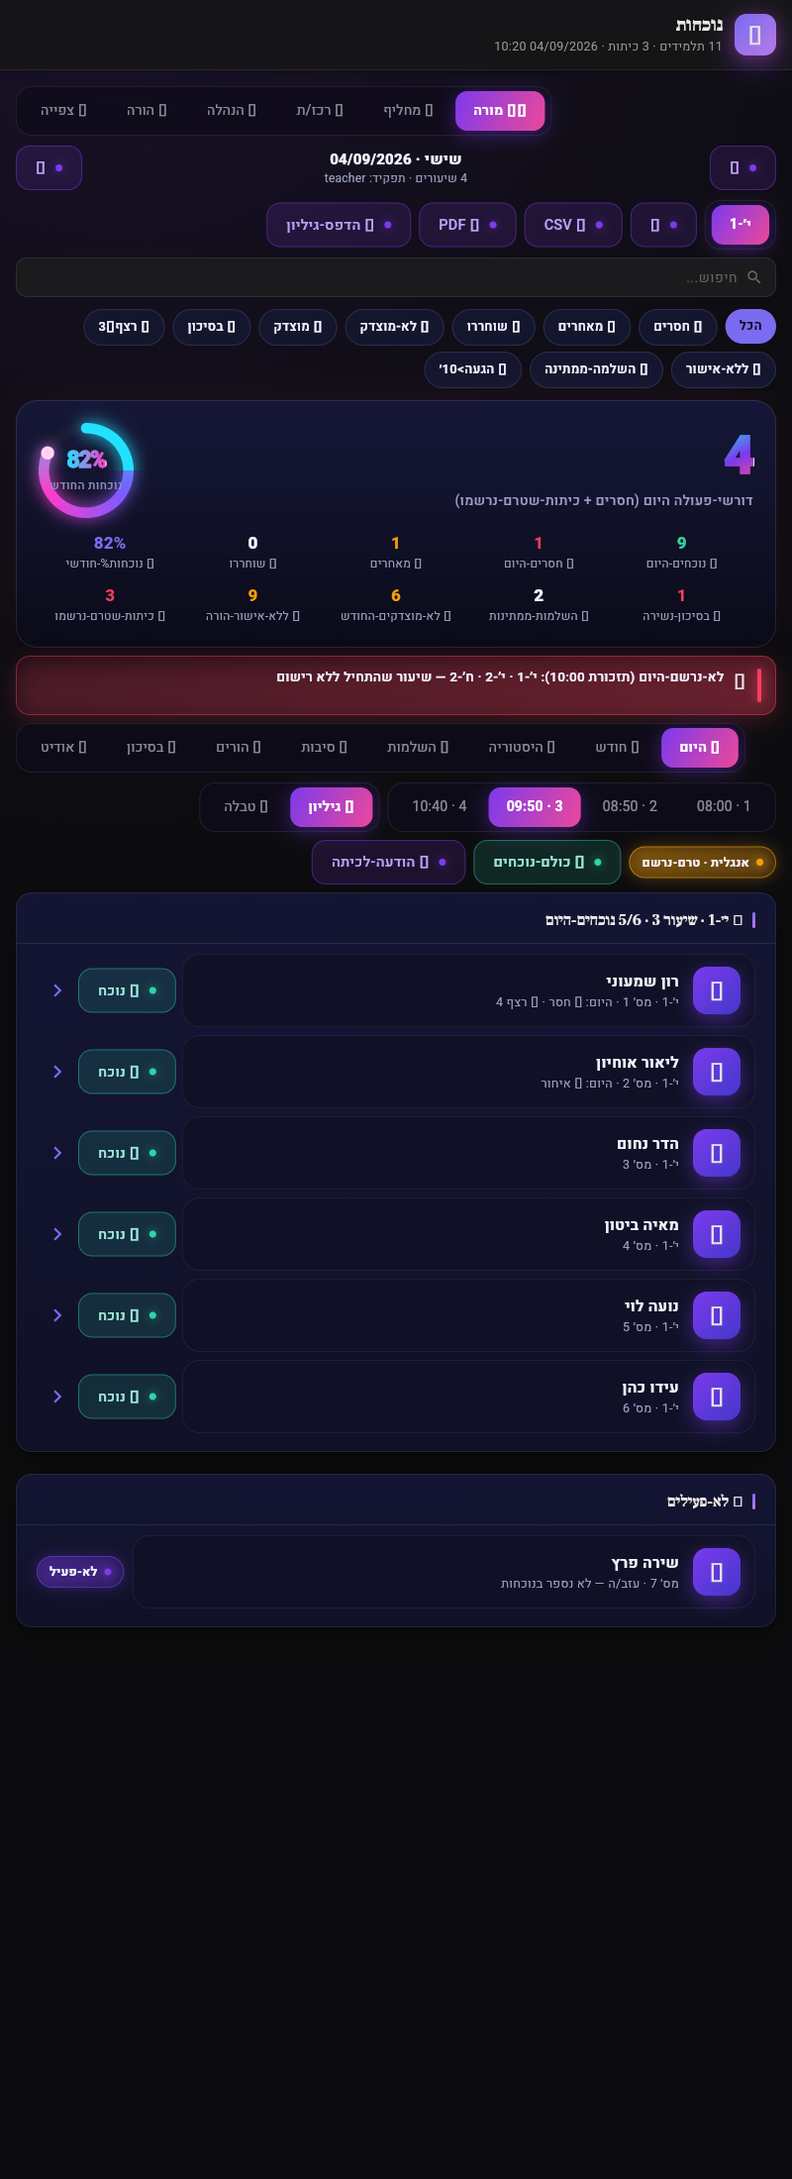
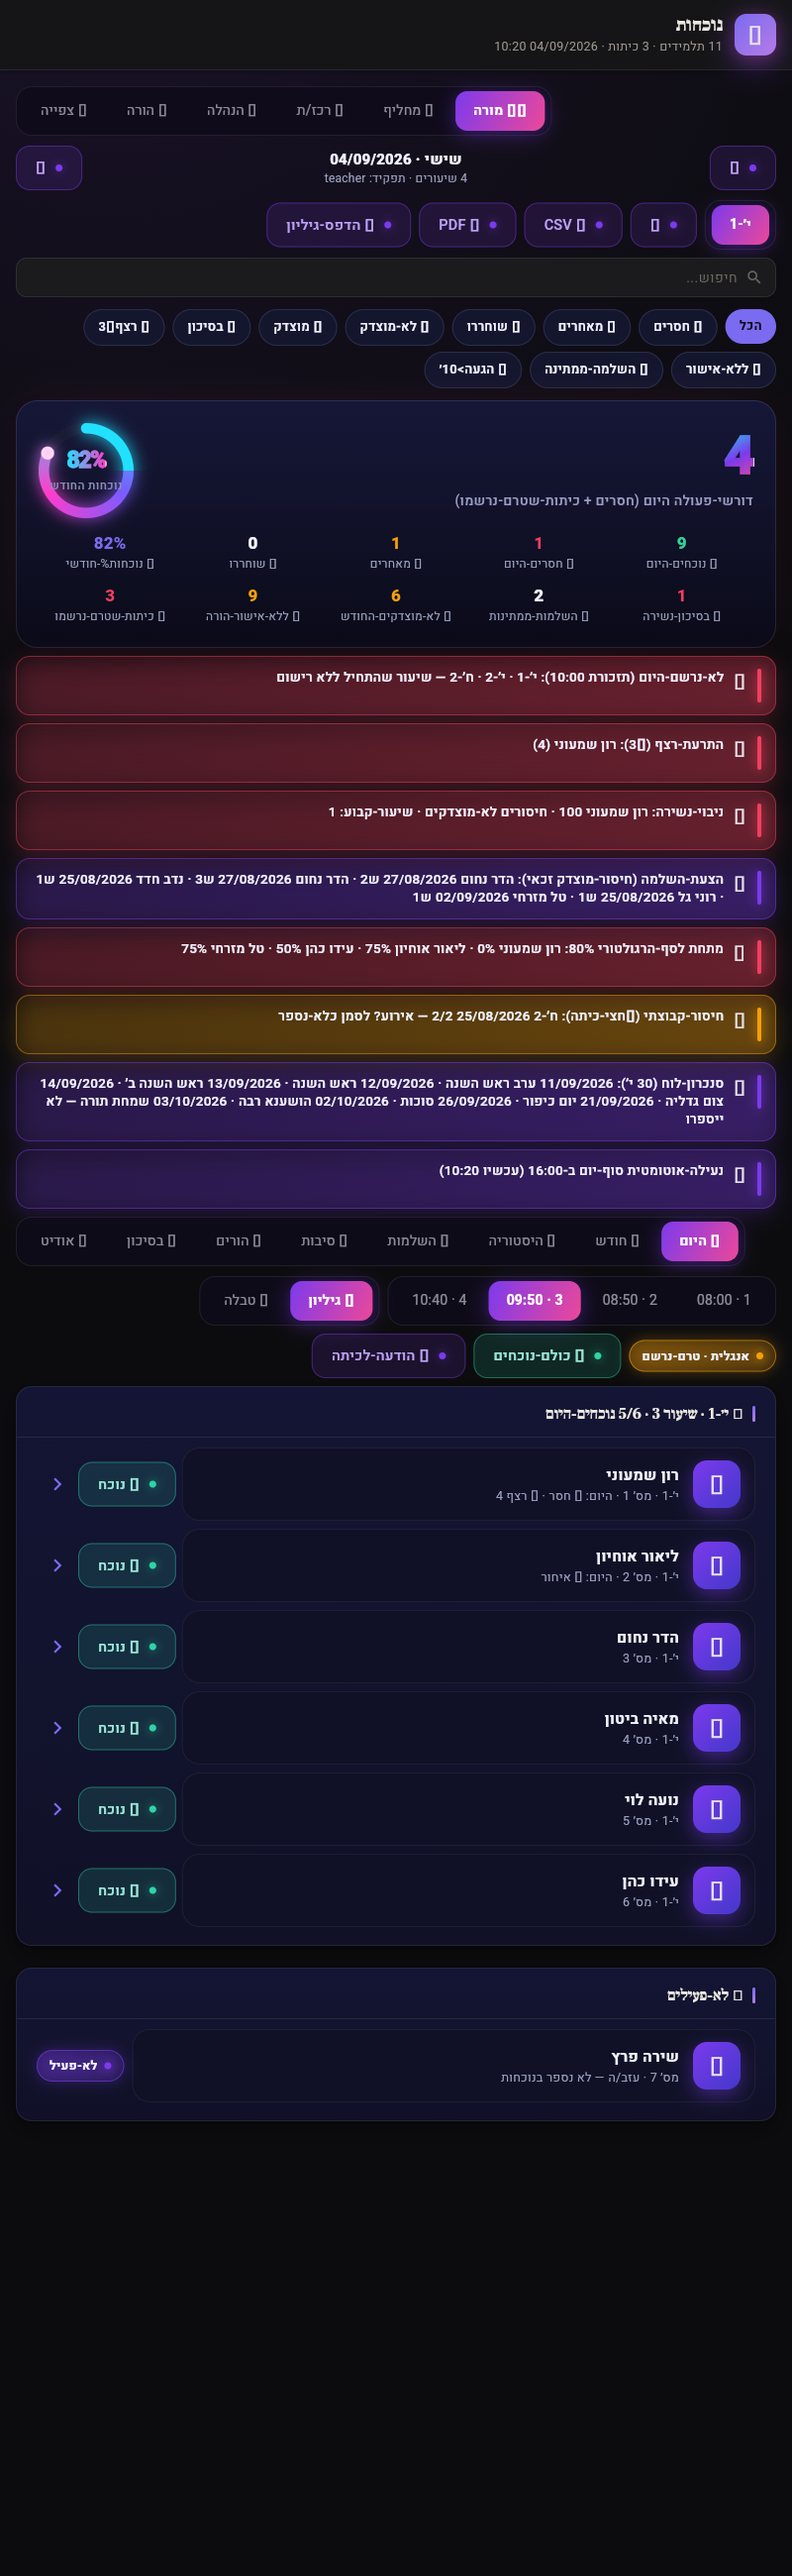
גל 6-7 · נוכחות · 10 אוטומציות-חכמות + 13 שקעי-הצבה (מקום-שמור) — AlertBanner×10 ⊕ streak⊕dayDiff · riskParts⊕patterns(countBy) · makeupEligibility · dateInRange(דוח-שבועי) · upcomingHolidays⊕holidayOf · autoLocked(timeToMin)
התרעת-רצף · ניבוי-נשירה (דפוס יום/שיעור/אחרי-חופשה) · חלון-תגובה-הורה (הסלמה) · הצעת-השלמה · תזכורת
לא-נרשם · דוח-שבועי-CSV להנהלה · סף-רגולטורי (+התרעה-מקדימה) · נעילה-אוטו · חיסור-קבוצתי (≥חצי-כיתה,
דמו ח׳-2 25/8 2/2) · סנכרון-לוח 30 י׳. שקעים מוצהרים (photo·medicalDoc·online·transportLate·cardIn·gpsIn·
riskExternal·noticeHrs·notifySink·auditSink·pdfPrint·substituteTeacher·dashboardCounters) בטאב-אודיט.
analyze — No issues found · police --fast 22/0 · רנדר: מרכז-אוטומציות.

Claude-Session: https://claude.ai/code/session_015e8tcWJUhfaDCFRBSoFfLY

Protocol-Ran: 81ef2ca4e8341b9e

diff --git a/new/dart-gen-bs/schoolos_attendance.dart b/new/dart-gen-bs/schoolos_attendance.dart
@@ -56,6 +56,7 @@ import '../dart-maor/month-key.dart'; // מנוע-מדף: ISO ⇒ YYYY-MM
 import '../dart-maor/week-day-names.dart'; // דאטה-מדף: שמות-ימים (ראשון..שבת)
 import '../dart-maor/time-to-min.dart'; // מנוע-מדף: 'HH:MM' ⇒ דקות (איחור · שיעור-נוכחי)
 import '../dart-maor/holiday-of.dart'; // מנוע-מדף: שם-חג לתאריך (לוח-עברי)
+import '../dart-maor/upcoming-holidays.dart'; // מנוע-מדף: חגים-קרובים בחלון-ימים (סנכרון-לוח מקדים)
 import '../dart-maor/holidays.dart'; // דאטה-מדף: HOLIDAYS מפת-חגים
 import '../dart-maor/heb-parts.dart'; // מנוע-מדף: תאריך ⇒ {day,month(En),year} עברי
 import '../dart-data-maor/holiday-of-terms.dart' as hol_t; // מונחי-חגים-נדחים (דאטה)
@@ -80,6 +81,9 @@ class _Placement {
   static const riskRed = 60, riskOrange = 35; // ספי-סיכון (ציון 0..100)
   static const lockHm = '16:00'; // נעילה-אוטומטית סוף-יום
   static const remindHm = '10:00'; // תזכורת "לא-נרשם-היום" למורה בשעה-X
+  static const responseWindowDays = 2; // חלון-תגובה להורה אחרי הודעה-אוטו (ימים)
+  static const groupAbsenceMin = 2; // חיסור-קבוצתי: לפחות N חסרים וגם ≥ חצי-כיתה ⇒ אירוע?
+  static const thresholdWarnPct = 5; // התרעה-מקדימה: עד N% מעל הסף-הרגולטורי
   // 6 זהויות-דמו מוזרקות (חוק-6 · לא אטום): תפקיד ⇐ roleOf(config,email) · פעולה ⇐ canGrantedAction(features)
   //   scope: classes (null=הכל) · window (ימים סביב היום שמותר לערוך; 0=היום בלבד) · child (הורה)
   static const roleDefs = <Map<String, dynamic>>[
@@ -164,6 +168,9 @@ class _AttData {
     // עידו — חיסורים לא-מוצדקים ללא-אישור-הורה (החודש) ⇒ הודעה-אוטו
     {'date': '2026-09-01', 'lesson': 2, 'sid': 's6', 'status': 'absent', 'reason': 'אחר', 'justified': false, 'by': 't1', 'at': '2026-09-01T08:55'},
     {'date': '2026-09-03', 'lesson': 4, 'sid': 's6', 'status': 'absent', 'reason': 'אחר', 'justified': false, 'by': 't1', 'at': '2026-09-03T10:44'},
+    // ח׳-2 · 25/8 — כל הכיתה חסרה (2/2) ⇒ זיהוי-חיסור-קבוצתי (אירוע: טיול)
+    {'date': '2026-08-25', 'lesson': 1, 'sid': 's11', 'status': 'absent', 'reason': 'טיול', 'justified': true, 'parentOk': true, 'by': 't3', 'at': '2026-08-25T08:05'},
+    {'date': '2026-08-25', 'lesson': 1, 'sid': 's12', 'status': 'absent', 'reason': 'טיול', 'justified': true, 'parentOk': true, 'by': 't3', 'at': '2026-08-25T08:05'},
     // י׳-2 · טל — אבל (מוצדק), יובל — איחור-הסעה
     {'date': '2026-09-02', 'lesson': 1, 'sid': 's8', 'status': 'absent', 'reason': 'אבל', 'justified': true, 'parentOk': true, 'by': 't2', 'at': '2026-09-02T08:03'},
     {'date': '2026-09-03', 'lesson': 1, 'sid': 's9', 'status': 'late', 'arrival': '08:12', 'by': 't2', 'at': '2026-09-03T08:12'},
@@ -607,6 +614,63 @@ class _AttData {
       (marks.where((m) => dateInRange(m['date'] as String, from, to) && (cls == null || studentById(m['sid'] as String)['cls'] == cls)).toList()
         ..sort((a, b) => '${b['date']}${b['lesson']}'.compareTo('${a['date']}${a['lesson']}')));
 
+  // ═══ אוטומציות-חכמות (פעולה-4 "חריגה" + פעולה-5 "הכרעה" · פרואקטיבי — המערכת מתריעה לפני שדבר נשמט) ═══
+  // 1) התרעת-רצף: N חיסורים רצופים (streak ⊕ dayDiff)
+  static List<Map<String, dynamic>> get streakAlerts => [for (final s in activeStudents) if (streak(s['id'] as String) >= _Placement.streakAlert) s];
+  // 2) ניבוי-נשירה: band≥1 עם דפוס (יום/שיעור-קבוע · אחרי-חופשה) — riskParts⊕patterns (countBy)
+  static List<Map<String, dynamic>> get dropoutPredictions => [for (final s in activeStudents) if (riskBand(s['id'] as String) > 0) s];
+  // 3) חלון-תגובה להורה: הודעה נשלחה ואין אישור אחרי responseWindowDays (dayDiff) ⇒ הסלמה
+  static List<Map<String, dynamic>> get expiredResponses => [
+        for (final m in marks)
+          if (unjustified(m) && m['parentOk'] != true && sent.contains(keyOf(m['date'] as String, m['lesson'] as int, m['sid'] as String)) && dayDiff(m['date'] as String, _Placement.today) > _Placement.responseWindowDays) m,
+      ];
+  // 4) הצעת-השלמה: חיסור-מוצדק זכאי (makeupEligibility) שטרם תוזמן
+  static List<Map<String, dynamic>> get makeupSuggestions => [
+        for (final m in marks)
+          if (m['status'] == 'absent' && m['justified'] == true && m['makeupDate'] == null && m['makeupDone'] != true && eligibility(m)['eligible'] == true) m,
+      ];
+  // 6) דוח-שבועי-להנהלה: סימוני 7 הימים האחרונים (dateInRange) בשורות-CSV
+  static List<List<Object?>> weeklyRows() => [
+        ['תאריך', 'תלמיד', 'כיתה', 'שיעור', 'סטטוס', 'סיבה', 'מוצדק', 'אישור-הורה', 'הגעה', 'רשם/ה'],
+        for (final m in marksInRange(shift(_Placement.today, -7), _Placement.today))
+          [m['date'], studentById(m['sid'] as String)['name'], className(studentById(m['sid'] as String)['cls'] as String), m['lesson'], statusLabel[m['status']], m['reason'] ?? '', m['justified'] == true ? 'כן' : 'לא', m['parentOk'] == true ? 'כן' : 'לא', m['arrival'] ?? '', m['by']],
+      ];
+  static String get weeklyCsv => toCsv(weeklyRows(), csvEscape) as String;
+  // 7) סף-רגולטורי: מתחת לסף (זכאות/תעודה) · התרעה-מקדימה (עד thresholdWarnPct מעל הסף)
+  static List<Map<String, dynamic>> get belowThreshold => [for (final s in activeStudents) if (attendancePct(s) * 100 < _Placement.minAttendancePct) s];
+  static List<Map<String, dynamic>> get nearThreshold => [for (final s in activeStudents) if (attendancePct(s) * 100 >= _Placement.minAttendancePct && attendancePct(s) * 100 < _Placement.minAttendancePct + _Placement.thresholdWarnPct) s];
+  // 9) זיהוי-חיסור-קבוצתי: ביום-לימודים, כיתה עם ≥ חצי-הרוסטר חסרים (ומינימום N) ⇒ אירוע? (30 ימי-לימודים אחרונים)
+  static List<Map<String, dynamic>> get groupAbsences => [
+        for (final d in lastSchoolDays(30))
+          for (final c in classes)
+            if (() {
+              final r = studentsOf(c['id'] as String);
+              final n = r.where((s) => absentDay(d, s['id'] as String)).length;
+              return r.isNotEmpty && n >= _Placement.groupAbsenceMin && n * 2 >= r.length;
+            }())
+              {'date': d, 'cls': c['id'], 'absent': studentsOf(c['id'] as String).where((s) => absentDay(d, s['id'] as String)).length, 'total': studentsOf(c['id'] as String).length},
+      ];
+  // 10) סנכרון-לוח מקדים: חגים-קרובים (upcomingHolidays מהמדף על holidayOf) ⇒ ימים שלא ייספרו
+  static List<Map<String, dynamic>> get upcoming => upcomingHolidays(_Placement.today, (d) => holidayName(iso(d)), iso, 30);
+  // 8) נעילה-אוטומטית: autoLocked (nowHm ≥ lockHm) — מוצג כמצב
+
+  // ═══ שקעי-הצבה · מקום-שמור (חוק-7 · מבחן-הקונכייה): כל יכולת חסרת-נתון = שקע מוצהר, מאיר כשמחובר ═══
+  static const reservedSockets = <Map<String, String>>[
+    {'key': 'photo', 'label': 'תמונת-תלמיד', 'where': 'students[].photo ⇒ עמודה "תמונה"'},
+    {'key': 'medicalDoc', 'label': 'אישור-רפואי (קובץ)', 'where': 'mark.medicalDoc ⇒ עמודה + כפתור "צרף-אישור"'},
+    {'key': 'online', 'label': 'נוכחות-מקוונת (היברידי)', 'where': 'mark.online ⇒ עמודה "מקוון"'},
+    {'key': 'transportLate', 'label': 'הסעה-איחור', 'where': 'mark.transportLate ⇒ עמודה "איחור-הסעה"'},
+    {'key': 'cardIn', 'label': 'ביומטרי/כרטיס-כניסה', 'where': 'mark.cardIn ⇒ עמודה + arrival אוטומטי'},
+    {'key': 'gpsIn', 'label': 'GPS-הגעה', 'where': 'mark.gpsIn (מקור: AttendanceDay.inLat/inLng)'},
+    {'key': 'riskExternal', 'label': 'ציון-סיכון חיצוני (מודול-תלמידים)', 'where': 'students[].riskExternal ⇒ max(פנימי,חיצוני)'},
+    {'key': 'noticeHrs', 'label': 'שעות-הודעה-מראש (ביטול-מוקדם)', 'where': 'mark.noticeHrs ⇒ makeupEligibility rawHrs'},
+    {'key': 'notifySink', 'label': 'שקע-שליחה SMS/וואטסאפ (מודול-הורים)', 'where': 'send(key) ⇒ תור בלבד עד חיבור'},
+    {'key': 'auditSink', 'label': 'אחסון-אודיט (pushAuditRing/pullAuditRing)', 'where': 'audit[] בזיכרון עד חיבור fs'},
+    {'key': 'pdfPrint', 'label': 'PDF/הדפסה', 'where': 'CSV זמין; PDF/מדפסת = שקע'},
+    {'key': 'substituteTeacher', 'label': 'מורה-מחליף מוקצה (מודול-מורים)', 'where': 'roleDefs[מחליף].classes מוזרק בהצבה'},
+    {'key': 'dashboardCounters', 'label': 'מוני-לוח-הנהלה', 'where': 'KPI getters — המנהל מחווט למסך-הבית'},
+  ];
+
   // ─── KPI-10 (פעולה-3 · כל אחד = ספירה/יחס על אמת) ───
   static List<Map<String, dynamic>> get activeStudents => students.where(activeOf).toList();
   static int countToday(String status) => activeStudents.where((s) => dayStatus(_Placement.today, s['id'] as String) == status).length;
@@ -723,6 +787,7 @@ class _AttendanceScreenState extends State<AttendanceScreen> {
           if (_AttData.exportOk) SoftButton(label: '⬇ CSV', tone: 0, onTap: () => _openExport(visible)),
           if (_AttData.exportOk) SoftButton(label: '📄 PDF', tone: 0, onTap: () => setState(() => _notice = 'ייצוא-PDF: שקע-מדפסת/PDF לא מחובר בהצבה — מקום-שמור (CSV זמין)')),
           if (_AttData.exportOk) SoftButton(label: '🖨 הדפס-גיליון', tone: 0, onTap: () => setState(() => _notice = 'הדפסה: שקע-מדפסת לא מחובר בהצבה — מקום-שמור')),
+          if (_AttData.exportOk && (_AttData.can('att.audit') || _AttData.roleName == 'admin')) SoftButton(label: '📈 דוח-שבועי', tone: 0, onTap: () => _openCsv('דוח-שבועי להנהלה', _AttData.weeklyRows(), _AttData.weeklyCsv)),
         ]),
         _gap(8),
         DsSearch(value: _q, onChanged: (v) => setState(() => _q = v)),
@@ -762,6 +827,8 @@ class _AttendanceScreenState extends State<AttendanceScreen> {
           AlertBanner(glyph: '📝', tone: 2, message: 'לא-נרשם-היום (תזכורת ${_Placement.remindHm}): ${notRec.map(_AttData.className).join(' · ')} — שיעור שהתחיל ללא רישום'),
           _gap(8),
         ],
+        // ── מרכז-אוטומציות (פרואקטיבי · 23-ג): רק התרעות פעילות — כל אחת = מנוע-מדף ⊕ AlertBanner/StatusChip ──
+        ..._automations(cls),
         // ── 8 טאבים (SegmentedSwitch מבוקר, גלילה-אופקית) ──
         SingleChildScrollView(scrollDirection: Axis.horizontal, reverse: true, child: SegmentedSwitch(items: _tabs, selected: _tab, onSelect: (i) => setState(() => _tab = i))),
         _gap(10),
@@ -1021,19 +1088,44 @@ class _AttendanceScreenState extends State<AttendanceScreen> {
       _gap(8),
       for (final a in _AttData.audit) TimelineItem(title: '${a['action']} · ${a['key']}', time: '${(a['at'] as String).replaceFirst('T', ' ')} #${a['seq']}', body: 'רשם/ה ${a['by']}'),
       for (final m in base.take(12)) TimelineItem(title: '${m['status']} · ${_AttData.studentById(m['sid'] as String)['name']} · שיעור ${m['lesson']}', time: '${(m['at'] as String).replaceFirst('T', ' ')}', body: 'רשם/ה ${m['by']}'),
+      _gap(12),
+      // 🔌 שקעי-הצבה (מקום-שמור · חוק-7): מוצהרים, לא מזויפים — מאירים כשמחובר נתון
+      Text('🔌 שקעי-הצבה · ${_AttData.reservedSockets.length} מקומות-שמורים (לא-מחוברים)', style: const TextStyle(color: _muted, fontSize: 12.5, fontWeight: FontWeight.w700)),
+      _gap(6),
+      for (final r in _AttData.reservedSockets) TimelineItem(title: '${r['label']}', time: r['key']!, body: r['where']),
     ]);
   }
 
+  // ═══ מרכז-אוטומציות: 10 אוטומציות-המפרט — כל אחת מנוע-מדף ⊕ AlertBanner (מוצג רק כשפעיל) ═══
+  List<Widget> _automations(String cls) {
+    final streaks = _AttData.streakAlerts, preds = _AttData.dropoutPredictions, exp = _AttData.expiredResponses;
+    final mk = _AttData.makeupSuggestions, below = _AttData.belowThreshold, near = _AttData.nearThreshold;
+    final groups = _AttData.groupAbsences, up = _AttData.upcoming;
+    final autoLock = _AttData.autoLocked(_Placement.today);
+    final out = <Widget>[
+      if (streaks.isNotEmpty) AlertBanner(glyph: '🔗', tone: 2, message: 'התרעת-רצף (≥${_Placement.streakAlert}): ${streaks.map((s) => '${s['name']} (${_AttData.streak(s['id'] as String)})').join(' · ')}'),
+      if (preds.isNotEmpty) AlertBanner(glyph: '🔮', tone: 2, message: 'ניבוי-נשירה: ${preds.map((s) => '${s['name']} ${_AttData.risk(s['id'] as String)} · ${_AttData.riskWhy(s['id'] as String)}${_AttData.patterns(s['id'] as String).isEmpty ? '' : ' · ${_AttData.patterns(s['id'] as String).keys.join(', ')}'}').join(' | ')}'),
+      if (exp.isNotEmpty) AlertBanner(glyph: '⏳', tone: 3, message: 'חלון-תגובה (${_Placement.responseWindowDays} י׳) פג ללא אישור-הורה: ${exp.map((m) => '${_AttData.studentById(m['sid'] as String)['name']} ${fmtDate(m['date'] as String)}').join(' · ')} — הסלמה לרכז/ת'),
+      if (mk.isNotEmpty) AlertBanner(glyph: '🔁', tone: 0, message: 'הצעת-השלמה (חיסור-מוצדק זכאי): ${mk.map((m) => '${_AttData.studentById(m['sid'] as String)['name']} ${fmtDate(m['date'] as String)} ש${m['lesson']}').join(' · ')}'),
+      if (below.isNotEmpty) AlertBanner(glyph: '⚖', tone: 2, message: 'מתחת לסף-הרגולטורי ${_Placement.minAttendancePct}%: ${below.map((s) => '${s['name']} ${(_AttData.attendancePct(s) * 100).round()}%').join(' · ')}'),
+      if (near.isNotEmpty) AlertBanner(glyph: '⚖', tone: 3, message: 'התרעה-מקדימה (עד ${_Placement.thresholdWarnPct}% מעל הסף): ${near.map((s) => '${s['name']} ${(_AttData.attendancePct(s) * 100).round()}%').join(' · ')}'),
+      if (groups.isNotEmpty) AlertBanner(glyph: '👥', tone: 3, message: 'חיסור-קבוצתי (≥חצי-כיתה): ${groups.map((g) => '${_AttData.className(g['cls'] as String)} ${fmtDate(g['date'] as String)} ${g['absent']}/${g['total']}').join(' · ')} — אירוע? לסמן כלא-נספר'),
+      if (up.isNotEmpty) AlertBanner(glyph: '🕎', tone: 0, message: 'סנכרון-לוח (30 י׳): ${up.map((h) => '${fmtDate(h['iso'] as String)} ${h['name']}').join(' · ')} — לא ייספרו'),
+      AlertBanner(glyph: autoLock ? '🔒' : '⏰', tone: autoLock ? 3 : 0, message: autoLock ? 'נעילה-אוטומטית סוף-יום פעילה (${_Placement.nowHm} ≥ ${_Placement.lockHm})' : 'נעילה-אוטומטית סוף-יום ב-${_Placement.lockHm} (עכשיו ${_Placement.nowHm})'),
+    ];
+    return [for (final w in out) ...[w, _gap(8)]];
+  }
+
   // ═══ ייצוא (23-ג) = SoftButton ⊕ toCsv ⊕ csvEscape ⊕ exportAllowed ⊕ guardExport ⊕ GlassCard-preview ═══
-  void _openExport(List<Map<String, dynamic>> rows) {
-    final csv = _AttData.csvOf(rows, _date);
+  void _openExport(List<Map<String, dynamic>> rows) => _openCsv('ייצוא CSV · נוכחות · ${fmtDate(_date)}', _AttData.csvRows(rows, _date), _AttData.csvOf(rows, _date));
+  void _openCsv(String title, List<List<Object?>> rows, String csv) {
     showModalBottomSheet<void>(
       context: context, backgroundColor: Colors.transparent, isScrollControlled: true,
       builder: (ctx) => DraggableScrollableSheet(
         initialChildSize: 0.6, minChildSize: 0.4, maxChildSize: 0.92, expand: false,
         builder: (ctx, scroll) => Padding(padding: const EdgeInsets.all(12), child: GlassCard(
           child: ListView(controller: scroll, padding: const EdgeInsets.all(6), children: [
-            MediaRow(glyph: '⬇', title: 'ייצוא CSV · נוכחות', subtitle: '${rows.length} תלמידים · ${_AttData.csvRows(rows, _date).first.length} עמודות · ${fmtDate(_date)}'),
+            MediaRow(glyph: '⬇', title: title, subtitle: '${rows.length - 1} שורות · ${rows.first.length} עמודות'),
             _gap(10),
             const Text('תצוגה מקדימה (BOM + חסימת-הזרקה):', style: TextStyle(color: _muted, fontSize: 12, fontWeight: FontWeight.w700)),
             _gap(8),
